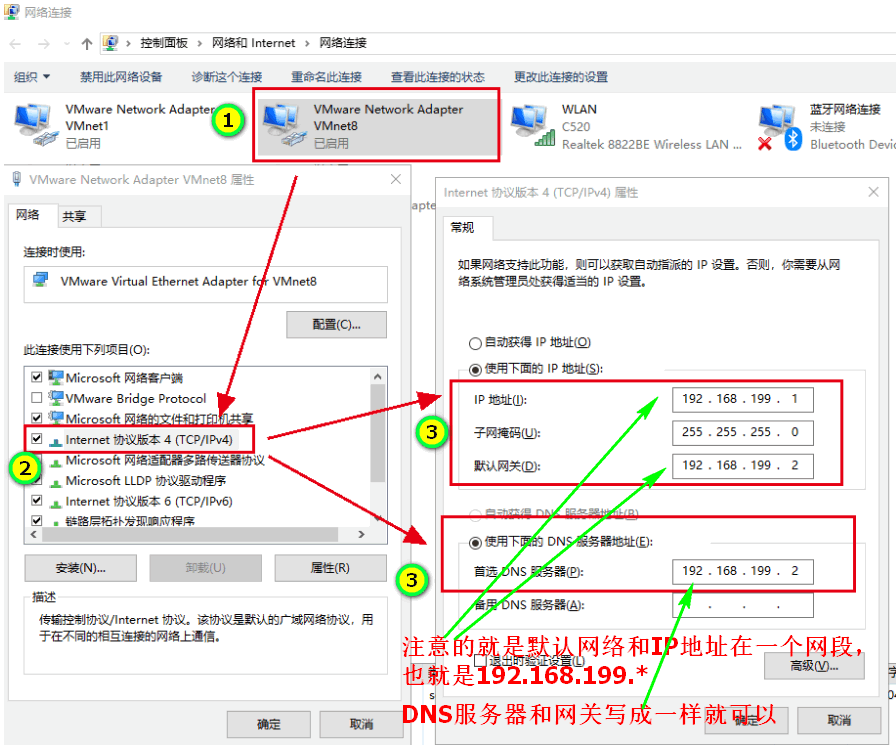
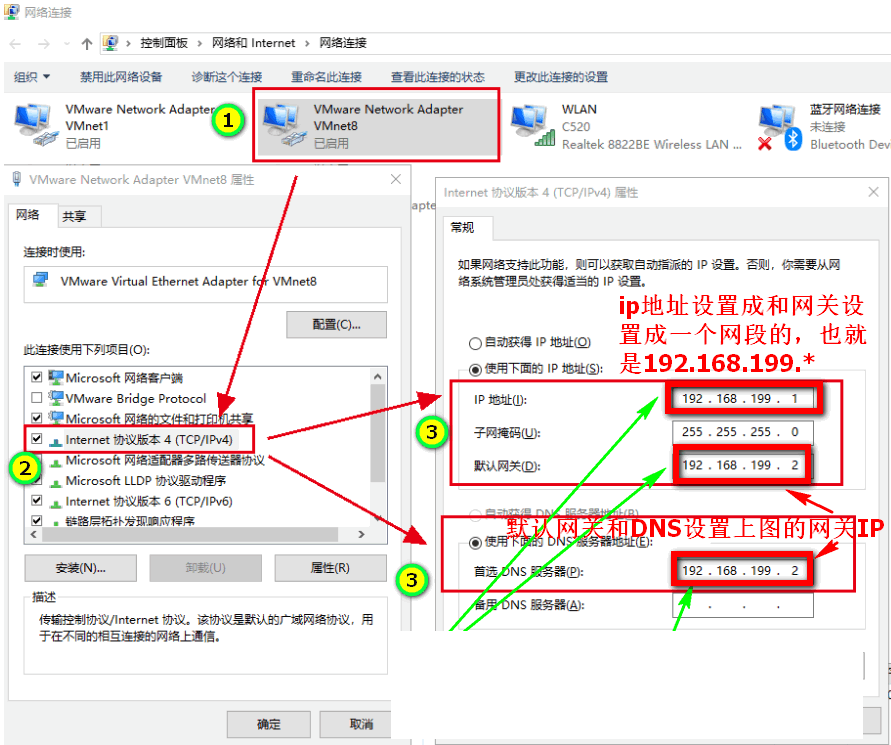
修复：虚拟机网络ip设置，网关ip问题

diff --git a/source/_posts/CenosNetWorkSetting.md b/source/_posts/CenosNetWorkSetting.md
@@ -20,6 +20,10 @@ date: 2020-11-23 02:58:16
 
 ## 1.网络模式选择
 
+> 先看下vmware的虚拟网卡VMnet8的网关IP
+
+![网络模式选择](/img/articleContent/Cenos7NetWorkSetting/CenosNetWorkSetting0.png)
+
 > 确认虚拟机选择的是 **NAT** 网络模式
 
 ![网络模式选择](/img/articleContent/Cenos7NetWorkSetting/CenosNetWorkSetting1.png)
